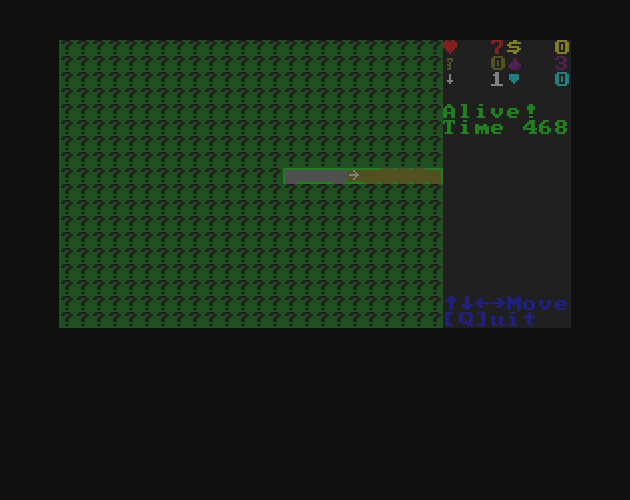
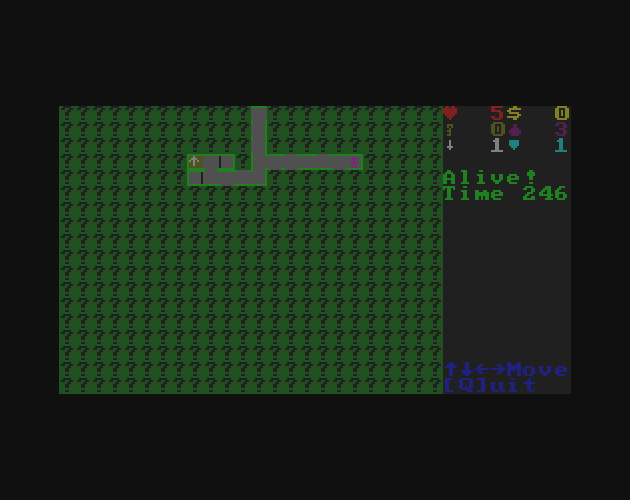
Cover from an explored frame; devlog for the first release

Changed region(s): [[0.0905, 0.06, 0.9048, 0.81], [0.7841, 0.06, 0.8444, 0.18], [0.8746, 0.06, 0.9048, 0.18]]

diff --git a/tools/make_cover.py b/tools/make_cover.py
@@ -16,9 +16,9 @@ W, H, S = 630, 500, 2
 img = bytearray(b"\x10\x10\x10" * (W * H))
 tmp = tempfile.mkdtemp()
 fp = os.path.join(tmp, "f.ppm")
-frame(42, "12,4,4,2,4,4,2,2,4,4,4,2,2,4", fp)
+frame(7, "12,4,2,1,3,4,1,3,2,2,3,4,1,2,4,1,4,1,4,3,1,3,2,3,3,3,3,1,1,4,4,3,3,4,2,4,4,3,4,1,4,1,2,1,3,3,4,2,2,4,1,2,2,4,2,4,3,2,3,3,3,3,1,4,1,2,1,1,1,2,1,1,3,1,3,4,2,4,3,2,2,4,3,2,2,4,1,1,2,4,2,2,3,2,4,2,4,2,4,3,2,3,4,3,3,1,2,1,1,4,2,4,3,1,3,1,1,3,2,4,3,3,1,2,3,1,2,3,1,1,4,3,3,3,3,3,2,3,4,4,3,1,3,2,1,3,3,2,3,2,3,4,2,2,2,1,4,2,4,3,4,4,2,3,1,3,4,2,4,3,4,2,2,4,2,1,2,3,3,2,2,3,3,4,2,3,4,2,1,3,1,4,4,1,4,3,3,3,4,3,1,3,4,3,1,3,2,2,3,3,4,1,1,3,2,1,2,4,4,2,1,2,1,4,1,2,2,1,4,2,4,2,4,2,3,1,1,2,3,3,3,1,3,4,3,2,2,1,1,2,2,3,2,1,1,1,4,3,4,3,1", fp)
 w, h, px = read_ppm(fp)
-ox, oy = (W - w * 2) // 2, 40
+ox, oy = (W - w * 2) // 2, (H - h * 2) // 2
 for y in range(h * 2):
     for x in range(w * 2):
         i = ((y // 2) * w + x // 2) * 3

diff --git a/devlog/20261015/devlog.md b/devlog/20261015/devlog.md
@@ -1,0 +1,13 @@
+# Maze Explorer of SPLORR!! is up
+
+Maze Explorer was a sample game for a blog series about moving from C# to F#. I wrote it years ago, it was WinForms and it was never going to run in a browser. It does now.
+
+This is an exact port. The rules, the difficulty tables, the 8 by 8 art and the font are the original's. You get a maze you only see a little of, locks and keys, monsters, items, and a clock that is not on your side. Three difficulties, a score screen, and your best score for each is remembered in the browser.
+
+What is new: it runs as WebAssembly (Odin), it has touch buttons for phones, fullscreen on the F key, and the sounds are new, made with jsfxr instead of the original wav files. Add `?seed=N` to the address to play the same maze again.
+
+What is not new, on purpose: the quirks. The original has a few. A Drink command that does nothing, a pause setting that makes the pause keys do nothing, monsters that cannot be killed by some fights, and in rare mazes the exit may not be reachable. I kept them, wrote each one down, and will deal with them one at a time with the game's original behaviour on the table.
+
+Under the hood: 50 tests, the 297 original art patterns checked against the F# source, and a check that the wasm build and a native build draw the same frames for the same keys.
+
+Still on the list: the quirks, and a proper listen to those sounds.
